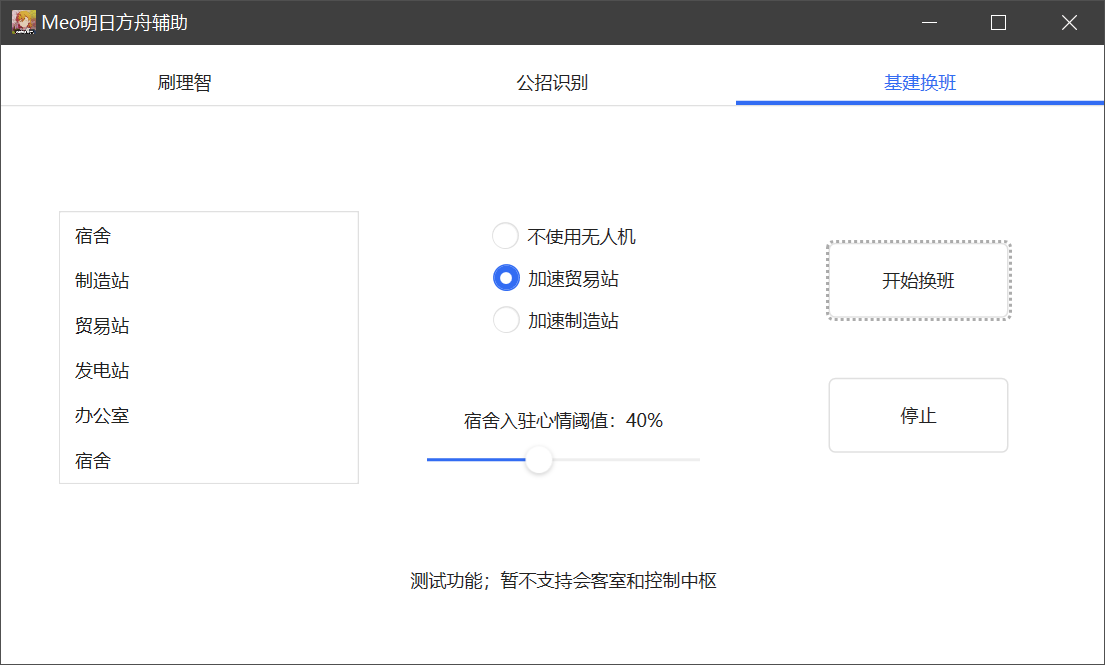
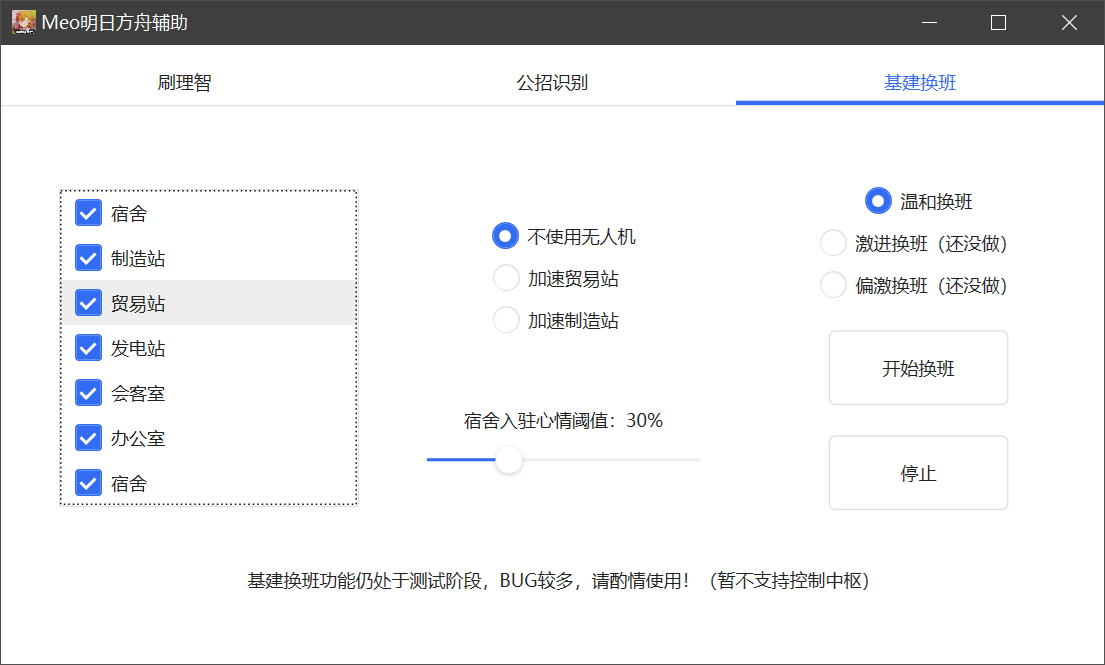
docs.基建换班模式，画饼（bushi
Former-commit-id: ab62f28a15126059c0abd9a10bb4e2622c65aed9

diff --git a/src/MeoAsstGui/Views/InfrastructureConstructionView.xaml b/src/MeoAsstGui/Views/InfrastructureConstructionView.xaml
@@ -53,9 +53,15 @@
                 <Grid.RowDefinitions>
                     <RowDefinition />
                     <RowDefinition />
+                    <RowDefinition />
                 </Grid.RowDefinitions>
-                <Button Grid.Row="0" Command="{s:Action ChangeShift}" Content="开始换班" HorizontalAlignment="Center" VerticalAlignment="Center" Width="120" Height="50" Margin="0, 20" />
-                <Button Grid.Row="1" Command="{s:Action Stop}" Content="停止" HorizontalAlignment="Center" VerticalAlignment="Center" Width="120" Height="50" Margin="0, 20" />
+                <StackPanel Grid.Row="0"  Orientation="Vertical" HorizontalAlignment="Center"  VerticalAlignment="Center"  Margin="0, 0, 0, 10">
+                    <RadioButton GroupName="换班模式" Content="温和换班" IsChecked="True" Margin="0, 5" />
+                    <RadioButton GroupName="换班模式" Content="激进换班（还没做）" IsChecked="False" Margin="0, 5" />
+                    <RadioButton GroupName="换班模式" Content="偏激换班（还没做）" IsChecked="False" Margin="0, 5" />
+                </StackPanel>
+                <Button Grid.Row="1" Command="{s:Action ChangeShift}" Content="开始换班" HorizontalAlignment="Center" VerticalAlignment="Center" Width="120" Height="50" Margin="0, 10" />
+                <Button Grid.Row="2" Command="{s:Action Stop}" Content="停止" HorizontalAlignment="Center" VerticalAlignment="Center" Width="120" Height="50" Margin="0, 10, 0, 0" />
             </Grid>
         </Grid>
 

diff --git a/README.md b/README.md
@@ -37,6 +37,7 @@ A game assistance for Arknights
     - 单设施内最优解，会计算单设施内所有特殊干员组合
     - 可识别赤金、经验书，分别使用不同的干员组合
     - `迷迭香`等跨设施体系正在开发中！
+    - 详细换班功能介绍见[基建换班说明](#基建换班)
 - 自动刷理智
     - 支持刷完自动上传[企鹅物流数据统计](https://penguin-stats.cn/)
     - 界面支持统计掉落数量
@@ -130,6 +131,32 @@ A game assistance for Arknights
 2. 根据你的需要勾选"吃理智药"和"吃石头"
 3. 点击"开始刷理智"，开始后上面的选项也可以随时修改
 4. 刷完了会自动停止的
+
+### 基建换班
+
+1. 明日方舟处于主界面，或刚进入基建的界面（基建界面没有进行过缩放、干员排序调整等）
+2. 根据你的需要勾选左侧需要进行换班的设施（也可以拖动调整换班顺序）；设置换班模式、无人机、心情阈值等
+3. 点击开始换班，开始执行后上述设置不可修改
+
+#### 换班策略
+
+自动计算并选择单设施内的最优解，支持所有通用类技能和特殊技能组合（但并非跨设施的最优解，如`迷迭香`这类跨设施间联动的体系，暂不支持）
+
+#### 温和换班模式
+
+会对干员人数不满的设施进行换班，计算单设施内最优解，尽量不破坏原有的干员组合；即若设施内干员是满的，则不对该设施进行换班
+
+#### 激进换班模式
+
+会对每一个设施进行换班，计算单设施内最优解，但不会将其他设施中的干员替换过来；即按工作状态排序，仅选择前面的干员
+
+#### 偏激换班模式
+
+会对每一个设施进行换班，计算全局的单设施内最优解，为追求更高效率，会将其他设施内的干员也替换过来；即按技能排序，计算所有拥有该设施技能的干员效率，无论他在不在其他地方工作（放心，辅助不会傻到把某个干员在几个设施之间来回倒腾的_(:з」∠)_
+
+#### 宿舍入驻心情阈值
+
+计算心情进度条的百分比；心情小于该阈值的干员，无论如何也不上班（不管上面的模式你选择了哪一种），直接进驻宿舍
 
 ### 公开招募识别
 
